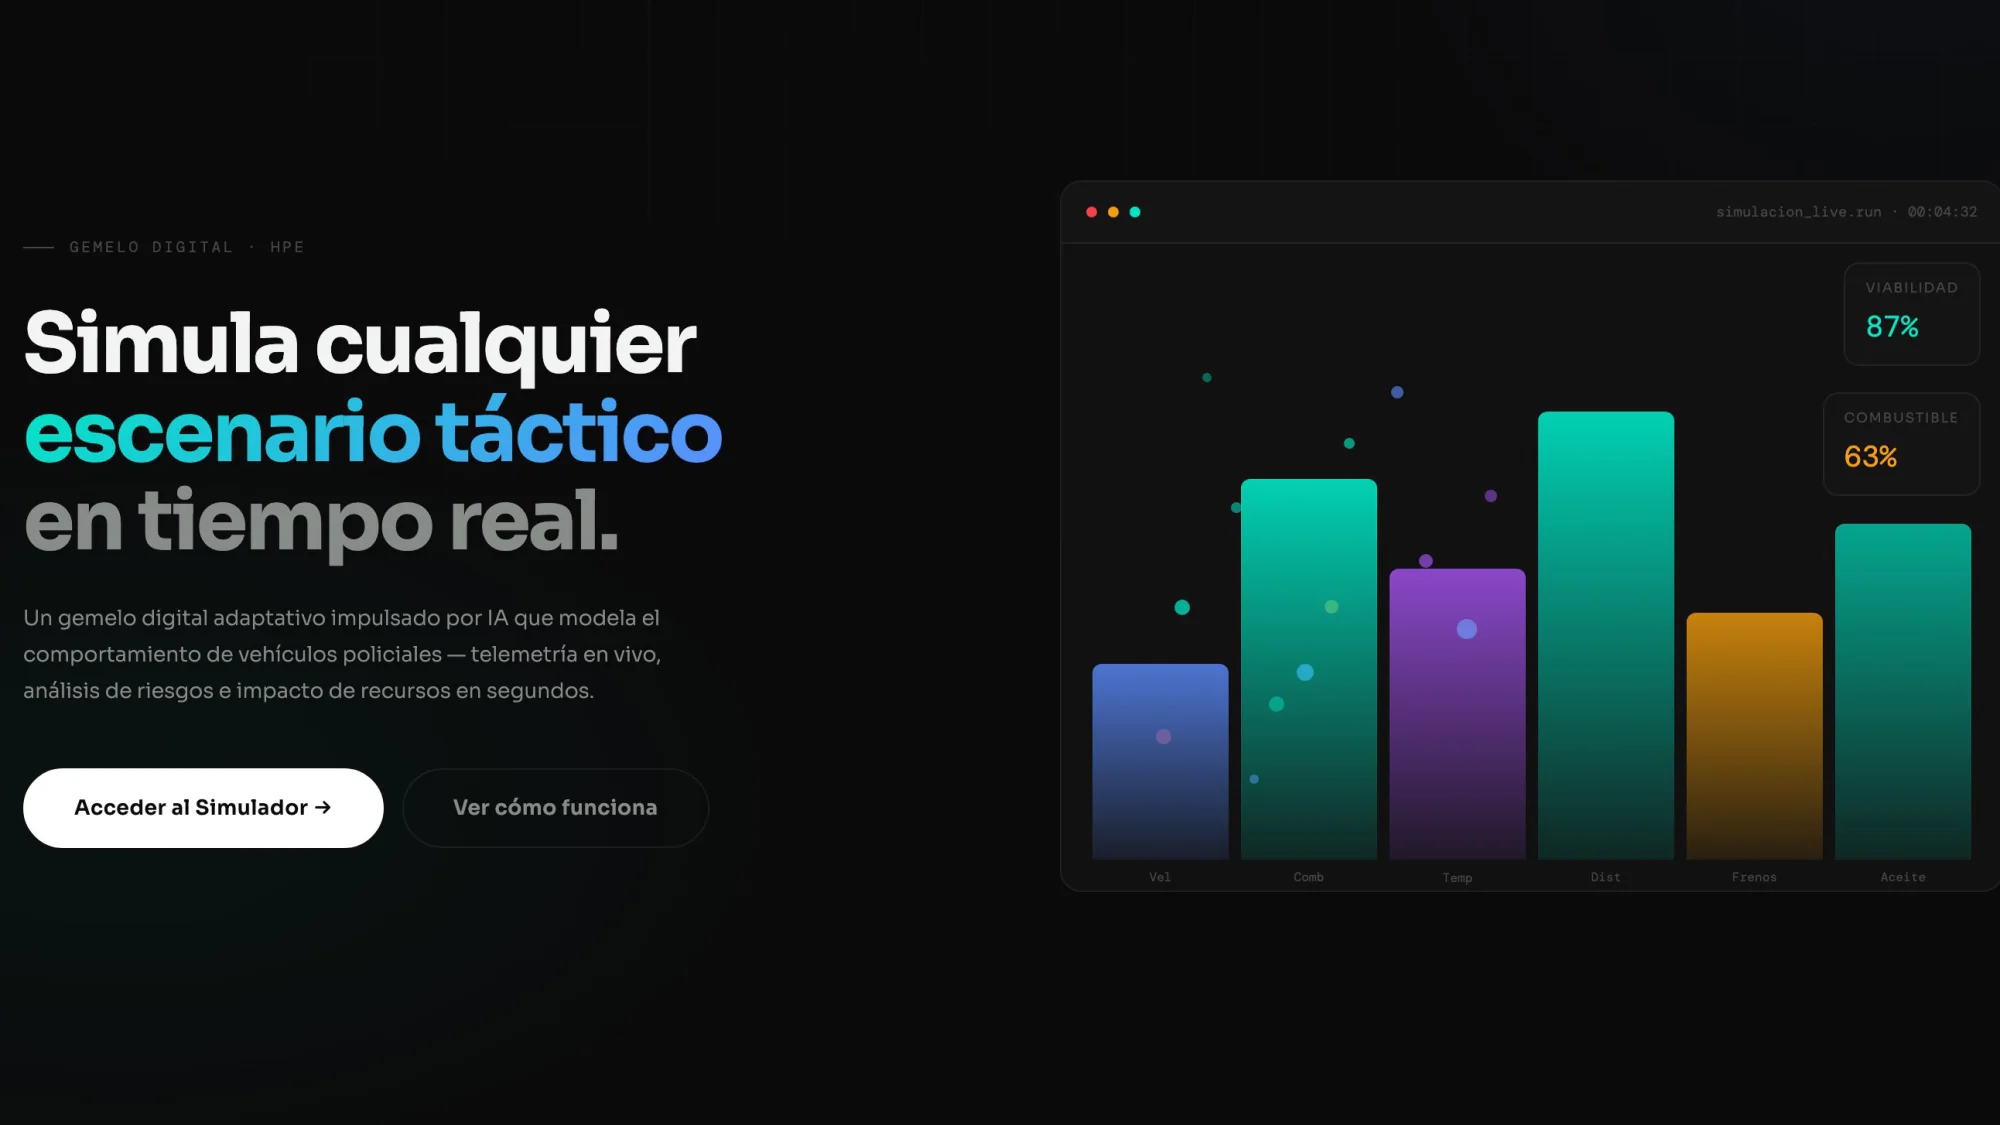
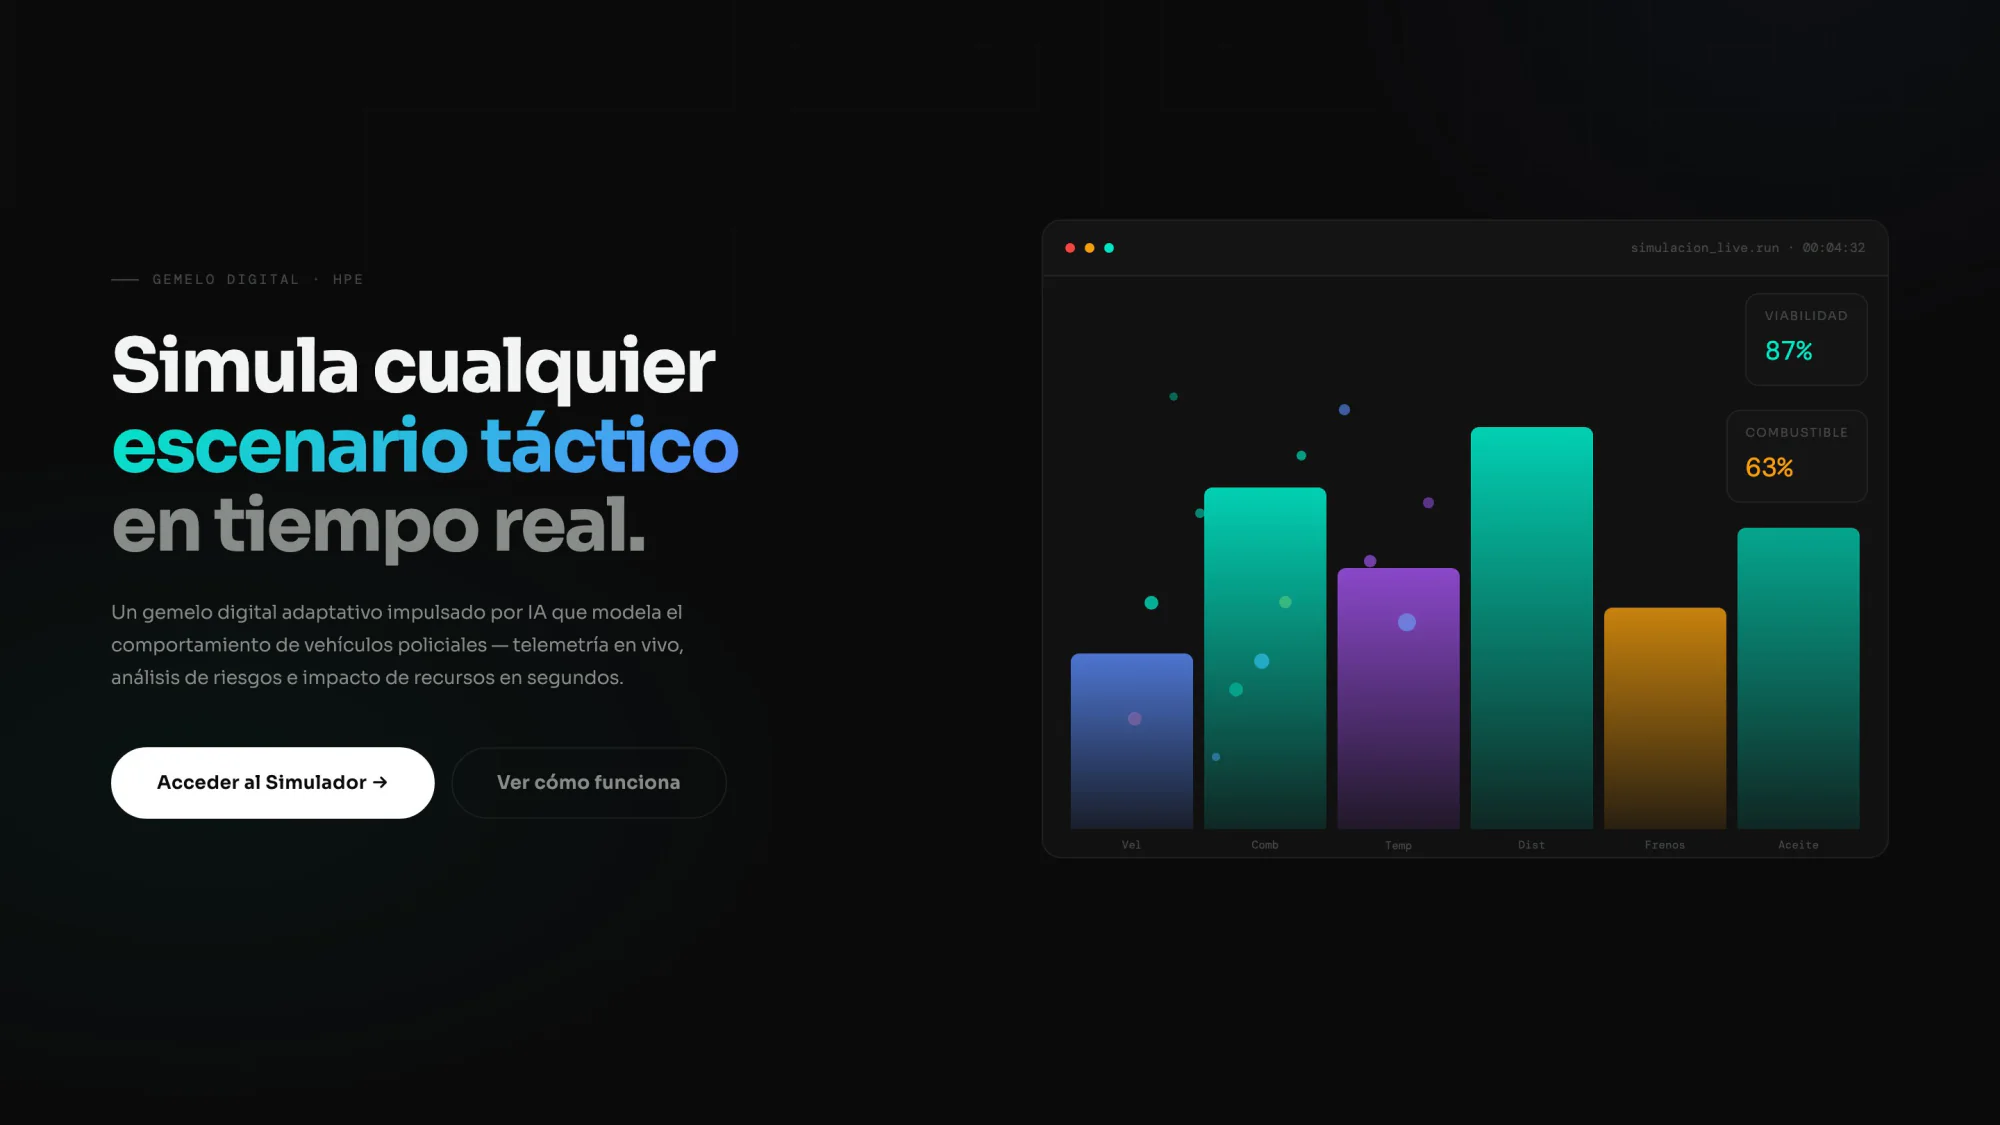
fix: widen HPE screenshot margins, photo-free competition cards
Only the anchor entry has photography, so the rest no longer reserve space
for an image or render a gradient placeholder.

diff --git a/app/[locale]/competitions/page.tsx b/app/[locale]/competitions/page.tsx
@@ -29,14 +29,15 @@ export default async function CompetitionsPage({ params }: LocaleParams) {
   const locale = toLocale((await params).locale);
   const dict = getDictionary(locale);
 
-  const completed = competitions.filter((c) => c.status === 'completed');
-  const ongoing = competitions.filter((c) => c.status === 'ongoing');
-  const anchor = completed.filter((c) => c.anchor);
-  const otherCompleted = completed.filter((c) => !c.anchor);
+  // Only the anchor entry has photography; everything else is text only.
+  const anchor = competitions.find((c) => c.anchor);
+  const rest = competitions.filter((c) => !c.anchor);
+  const completed = rest.filter((c) => c.status === 'completed');
+  const ongoing = rest.filter((c) => c.status === 'ongoing');
 
   return (
     <PageShell>
-      <section className="pt-12 text-center md:pt-16">
+      <section className="py-16 text-center md:py-20">
         <h1 className="mx-auto max-w-2xl text-balance text-[clamp(2rem,5vw,3.25rem)] font-medium leading-[1.1] tracking-[-0.05em]">
           {dict.competitions.pageTitle}
         </h1>
@@ -45,52 +46,65 @@ export default async function CompetitionsPage({ params }: LocaleParams) {
         </p>
       </section>
 
-      <div className="mt-12 space-y-12 pb-16 md:space-y-16">
-        <section className="relative space-y-8">
-          <RuledHeading
-            eyebrow={dict.competitions.result}
-            title={dict.competitions.resultsHeading}
-          />
-          <div className="grid grid-cols-1 gap-2">
-            {anchor.map((competition, i) => (
-              <Reveal key={competition.slug} delay={i} variant="tilt">
-                <CompetitionCard
-                  competition={competition}
-                  locale={locale}
-                  dict={dict}
-                  anchor
-                />
-              </Reveal>
-            ))}
-            {otherCompleted.map((competition, i) => (
-              <Reveal key={competition.slug} delay={i + 1} variant="tilt">
-                <CompetitionCard
-                  competition={competition}
-                  locale={locale}
-                  dict={dict}
-                />
-              </Reveal>
-            ))}
-          </div>
-        </section>
+      <div className="space-y-12 pb-20 md:space-y-16">
+        {anchor && (
+          <section className="relative space-y-8">
+            <RuledHeading
+              eyebrow={dict.competitions.result}
+              title={dict.competitions.resultsHeading}
+            />
+            <Reveal variant="tilt">
+              <CompetitionCard
+                competition={anchor}
+                locale={locale}
+                dict={dict}
+                anchor
+              />
+            </Reveal>
+          </section>
+        )}
 
-        <section className="relative space-y-8">
-          <RuledHeading
-            eyebrow={dict.competitions.ongoing}
-            title={dict.competitions.ongoingTitle}
-          />
-          <div className="grid grid-cols-1 gap-2 md:grid-cols-2">
-            {ongoing.map((competition, i) => (
-              <Reveal key={competition.slug} delay={i} variant="tilt">
-                <CompetitionCard
-                  competition={competition}
-                  locale={locale}
-                  dict={dict}
-                />
-              </Reveal>
-            ))}
-          </div>
-        </section>
+        {completed.length > 0 && (
+          <section className="relative space-y-8">
+            <RuledHeading
+              eyebrow={dict.competitions.alsoEyebrow}
+              title={dict.competitions.alsoHeading}
+            />
+            <div className="grid grid-cols-1 gap-2 md:grid-cols-2">
+              {completed.map((competition, i) => (
+                <Reveal key={competition.slug} delay={i} variant="tilt">
+                  <CompetitionCard
+                    competition={competition}
+                    locale={locale}
+                    dict={dict}
+                    showMedia={false}
+                  />
+                </Reveal>
+              ))}
+            </div>
+          </section>
+        )}
+
+        {ongoing.length > 0 && (
+          <section className="relative space-y-8">
+            <RuledHeading
+              eyebrow={dict.competitions.ongoing}
+              title={dict.competitions.ongoingTitle}
+            />
+            <div className="grid grid-cols-1 gap-2 md:grid-cols-2">
+              {ongoing.map((competition, i) => (
+                <Reveal key={competition.slug} delay={i} variant="tilt">
+                  <CompetitionCard
+                    competition={competition}
+                    locale={locale}
+                    dict={dict}
+                    showMedia={false}
+                  />
+                </Reveal>
+              ))}
+            </div>
+          </section>
+        )}
       </div>
     </PageShell>
   );

diff --git a/components/competition-card.tsx b/components/competition-card.tsx
@@ -11,34 +11,40 @@ export function CompetitionCard({
   locale,
   dict,
   anchor = false,
+  showMedia = true,
 }: {
   competition: Competition;
   locale: Locale;
   dict: Dictionary;
   anchor?: boolean;
+  /** Only entries that actually have a photo should reserve space for one. */
+  showMedia?: boolean;
 }) {
   const ongoing = competition.status === 'ongoing';
+  const withMedia = showMedia && competition.images.length > 0;
 
   return (
     <Card interactive padded={false} className="h-full">
       {/* Card's inner wrapper is always flex-col, so the row layout lives here. */}
       <div className={cn('flex h-full flex-col', anchor && 'md:flex-row')}>
-        <div
-          className={cn(
-            'w-full shrink-0 overflow-hidden border-border',
-            anchor
-              ? 'h-48 border-b md:h-auto md:w-2/5 md:border-b-0 md:border-r'
-              : 'h-36 border-b',
-          )}
-        >
-          <Media
-            src={competition.images[0]}
-            seed={competition.slug}
-            label={competition.event}
-            alt={competition.event}
-            focus={competition.focus}
-          />
-        </div>
+        {withMedia && (
+          <div
+            className={cn(
+              'w-full shrink-0 overflow-hidden border-border',
+              anchor
+                ? 'h-48 border-b md:h-auto md:w-2/5 md:border-b-0 md:border-r'
+                : 'h-36 border-b',
+            )}
+          >
+            <Media
+              src={competition.images[0]}
+              seed={competition.slug}
+              label={competition.event}
+              alt={competition.event}
+              focus={competition.focus}
+            />
+          </div>
+        )}
 
         <div className="flex flex-1 flex-col p-6">
           <div className="flex flex-wrap items-center gap-3">
